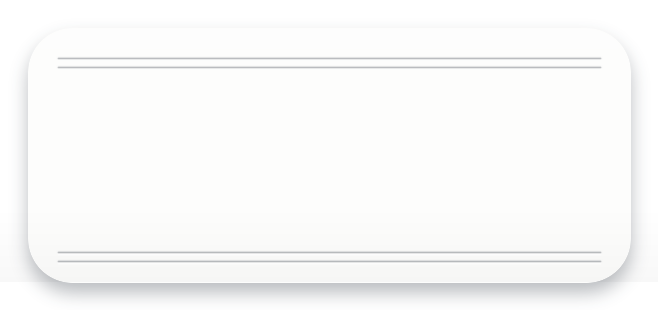
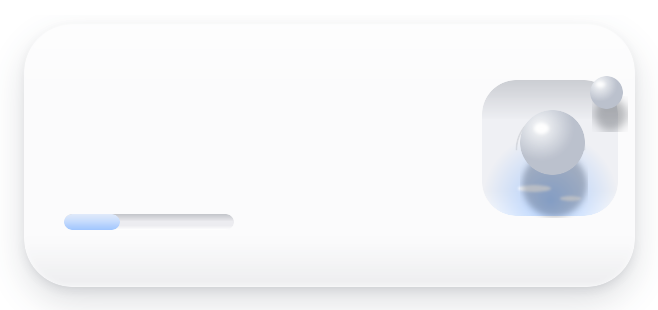
Clay preview v7: matte-white soft-UI redesign (pearl spheres, recessed pool with pale blue glow, recessed slots/progress)

diff --git a/widget-preview-clay.html b/widget-preview-clay.html
@@ -13,34 +13,39 @@
   /* ---------- HOME SCREEN WIDGET (medium, 329x155pt @2x) ---------- */
   .widget{width:658px;max-width:100%}
   .widget img{display:block;width:100%;height:auto}
-  .w-text{position:absolute;left:58px;top:50%;transform:translateY(-50%);display:flex;flex-direction:column;gap:7px;max-width:540px}
-  .w-eyebrow{font:800 12px Inter;letter-spacing:.22em;text-transform:uppercase;color:#E8480C}
-  .w-title{font:800 23px/1.18 -apple-system,"SF Pro Text",Figtree,sans-serif;color:#141414}
-  .w-meta{font:700 11px Inter;letter-spacing:.14em;text-transform:uppercase;color:#6B6B66;margin-top:3px}
 
-  /* pressed-in (debossed) groove strips, like the reference's letterpress rules */
-  .strip{display:flex;flex-direction:column;gap:6px}
-  .strip i{display:block;height:2px;border-radius:2px;background:rgba(23,32,44,.16);
-    box-shadow:inset 0 1px 1.5px rgba(23,32,44,.38), 0 1.5px 0 rgba(255,255,255,.95)}
+  /* ---------- matte-white soft-UI parts ---------- */
+  .slot{height:13px;border-radius:999px;background:#ECECF0;
+    box-shadow:inset 0 2px 3px rgba(23,32,44,.16), inset 0 -1px 0 rgba(255,255,255,.9), 0 1px 0 rgba(255,255,255,.9)}
+  .pearl{border-radius:50%;background:radial-gradient(circle at 35% 28%, #FFFFFF 0%, #F4F6F8 45%, #DDE3EA 100%);
+    box-shadow:inset -3px -5px 8px rgba(148,158,178,.35), 0 8px 14px rgba(23,32,44,.20)}
+  .track{position:relative;height:16px;border-radius:999px;background:#ECECF0;overflow:hidden;
+    box-shadow:inset 0 2px 3px rgba(23,32,44,.18), 0 1px 0 rgba(255,255,255,.9)}
+  .track i{position:absolute;left:0;top:0;bottom:0;border-radius:999px;
+    background:linear-gradient(180deg, rgba(255,255,255,.75), rgba(255,255,255,.05) 55%), #93BEFF;
+    box-shadow:inset 0 1px 1px rgba(255,255,255,.8)}
 
   /* ---------- READER ---------- */
   .reader{width:390px}
   .clay{
-    background:#FDFDFC;border-radius:28px;
-    box-shadow:0 18px 36px rgba(23,32,44,.13), inset 0 2px 5px rgba(255,255,255,.95), inset 0 -7px 14px rgba(23,32,44,.05);
-    padding:26px 24px 30px;
+    background:#FBFBFC;border-radius:40px;
+    box-shadow:0 24px 48px rgba(42,50,64,.14), 0 4px 10px rgba(42,50,64,.06),
+      inset 0 14px 22px rgba(255,255,255,.9), inset 0 -14px 26px rgba(42,50,64,.05);
+    padding:28px 26px 32px;
   }
-  .r-eyebrow{font:800 10px Inter;letter-spacing:.22em;text-transform:uppercase;color:#E8480C;margin-bottom:10px}
+  .r-head{display:flex;justify-content:space-between;align-items:flex-start}
+  .r-eyebrow{font:800 10px Inter;letter-spacing:.22em;text-transform:uppercase;color:#2B4BE0;margin-bottom:10px}
   .r-title{font:800 24px/1.15 Figtree,sans-serif;color:#141414;margin-bottom:6px}
-  .r-meta{font:700 10px Inter;letter-spacing:.16em;text-transform:uppercase;color:#6B6B66;margin-bottom:14px}
-  .r-plate{border-radius:18px;overflow:hidden;box-shadow:0 10px 22px rgba(23,32,44,.12);margin-bottom:18px}
+  .r-meta{font:700 10px Inter;letter-spacing:.16em;text-transform:uppercase;color:#6B6B66;margin-bottom:16px}
+  .r-pearl{width:34px;height:34px;margin:2px 2px 0 0}
+  .r-plate{border-radius:22px;overflow:hidden;box-shadow:0 12px 24px rgba(42,50,64,.12), inset 0 1px 0 rgba(255,255,255,.6);margin-bottom:18px}
   .r-plate img{display:block;width:100%;height:auto}
   .r-deck{font-style:italic;font-size:15.5px;line-height:1.5;color:#54544F;margin-bottom:16px}
   .r-body{font-size:15px;line-height:1.66;text-align:justify;hyphens:auto;color:#141414}
   .r-why{
-    margin-top:20px;background:#FDFDFC;border-radius:16px;
-    box-shadow:0 10px 22px rgba(23,32,44,.10), inset 0 2px 4px rgba(255,255,255,.9), inset 0 -5px 10px rgba(23,32,44,.05);
-    padding:14px 16px;font-size:13.5px;line-height:1.6;
+    margin-top:20px;border-radius:20px;padding:14px 16px;font-size:13.5px;line-height:1.6;
+    background:linear-gradient(165deg, rgba(190,215,255,.55), rgba(147,190,255,.30));
+    box-shadow:inset 0 1.5px 2px rgba(255,255,255,.85), inset 0 -4px 8px rgba(43,75,224,.08), 0 8px 18px rgba(42,50,64,.08);
   }
   .r-why span{display:block;font:800 8px Inter;letter-spacing:.22em;text-transform:uppercase;color:#2B4BE0;margin-bottom:5px}
   .r-src{margin:18px 2px 0;font:500 10.5px Inter;color:#6B6B66}
@@ -49,19 +54,20 @@
   .r-tick{
     display:flex;align-items:center;gap:10px;text-decoration:none;
     font:800 11px Inter;letter-spacing:.16em;text-transform:uppercase;color:#141414;
-    background:#FDFDFC;border-radius:999px;padding:12px 18px;
-    box-shadow:0 10px 20px rgba(23,32,44,.12), inset 0 2px 4px rgba(255,255,255,.95), inset 0 -4px 8px rgba(23,32,44,.05);
+    background:#FBFBFC;border-radius:999px;padding:12px 18px;
+    box-shadow:0 8px 16px rgba(42,50,64,.12), inset 0 2px 3px rgba(255,255,255,.95), inset 0 -4px 8px rgba(42,50,64,.06);
   }
-  .r-box{width:16px;height:16px;border:1.5px solid #141414;border-radius:5px;display:inline-block}
+  .r-box{width:16px;height:16px;border-radius:6px;display:inline-block;background:#FBFBFC;
+    box-shadow:inset 0 1.5px 2.5px rgba(23,32,44,.22), inset 0 -1px 0 rgba(255,255,255,.9)}
   .r-folio{font:700 10px Inter;letter-spacing:.12em;color:#6B6B66}
-  .r-folio b{color:#E8480C}
+  .r-folio b{color:#2B4BE0}
 </style>
 </head>
 <body>
 
 <div class="wrap">
   <div class="label">Home-screen widget (medium)</div>
-  <div class="widget"><img src="img/clay-face-medium.png?v=6" alt="Clay widget face"></div>
+  <div class="widget"><img src="img/clay-face-medium.png?v=7" alt="Clay widget face"></div>
 </div>
 </div>
 
@@ -69,10 +75,15 @@
   <div class="label">In-app reader</div>
   <div class="reader">
     <div class="clay">
-      <div class="r-eyebrow">Design Desk</div>
-      <div class="r-title">Serif Type is a Trust Signal</div>
+      <div class="r-head">
+        <div>
+          <div class="r-eyebrow">Design Desk</div>
+          <div class="r-title">Serif Type is a Trust Signal</div>
+        </div>
+        <div class="pearl r-pearl"></div>
+      </div>
       <div class="r-meta">№ 2 of 6 &middot; 1 min read</div>
-      <div class="strip" style="margin:0 0 20px"><i></i><i></i></div>
+      <div class="slot" style="margin:0 0 20px"></div>
       <figure class="r-plate"><img src="img/2026-10-18-2.jpg" alt=""></figure>
       <p class="r-deck">Newspapers still set headlines in serif faces for a reason. The modern twist is not the serif itself, it is what you pair it with.</p>
       <p class="r-body">A serif headline carries history: it reads as considered, editorial, finished. But the move in contemporary editorial design is contrast. One loud display face for the voice of the page, one quiet reading face for the story. Two typefaces, never three. Give the display face the emotional jobs, headlines and stamps. Give the reading face everything a reader settles into.</p>
@@ -82,7 +93,7 @@
         <a class="r-tick" href="#"><span class="r-box"></span>Mark as read</a>
         <span class="r-folio">№ <b>2</b> / 6</span>
       </div>
-      <div class="strip" style="margin:24px 0 0"><i></i><i></i></div>
+      <div class="track" style="margin-top:22px"><i style="width:33%"></i></div>
     </div>
   </div>
 </div>
